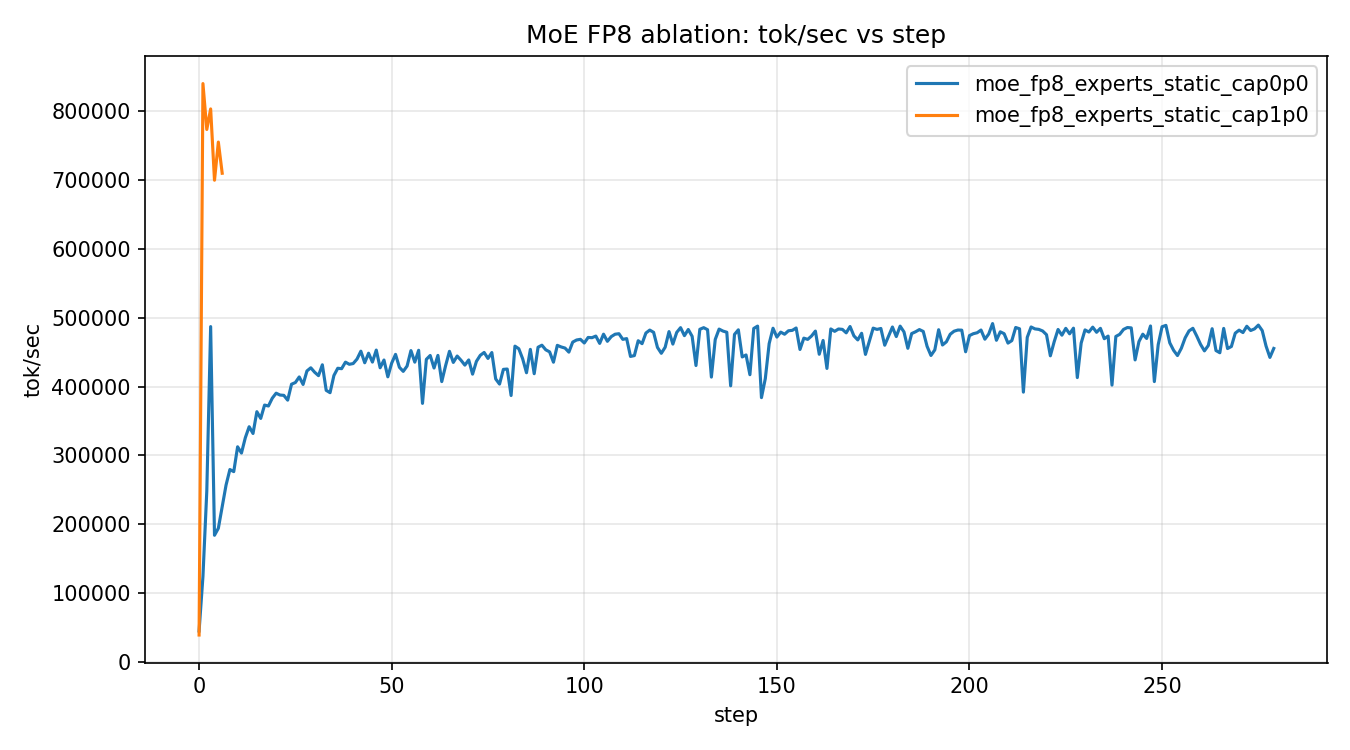
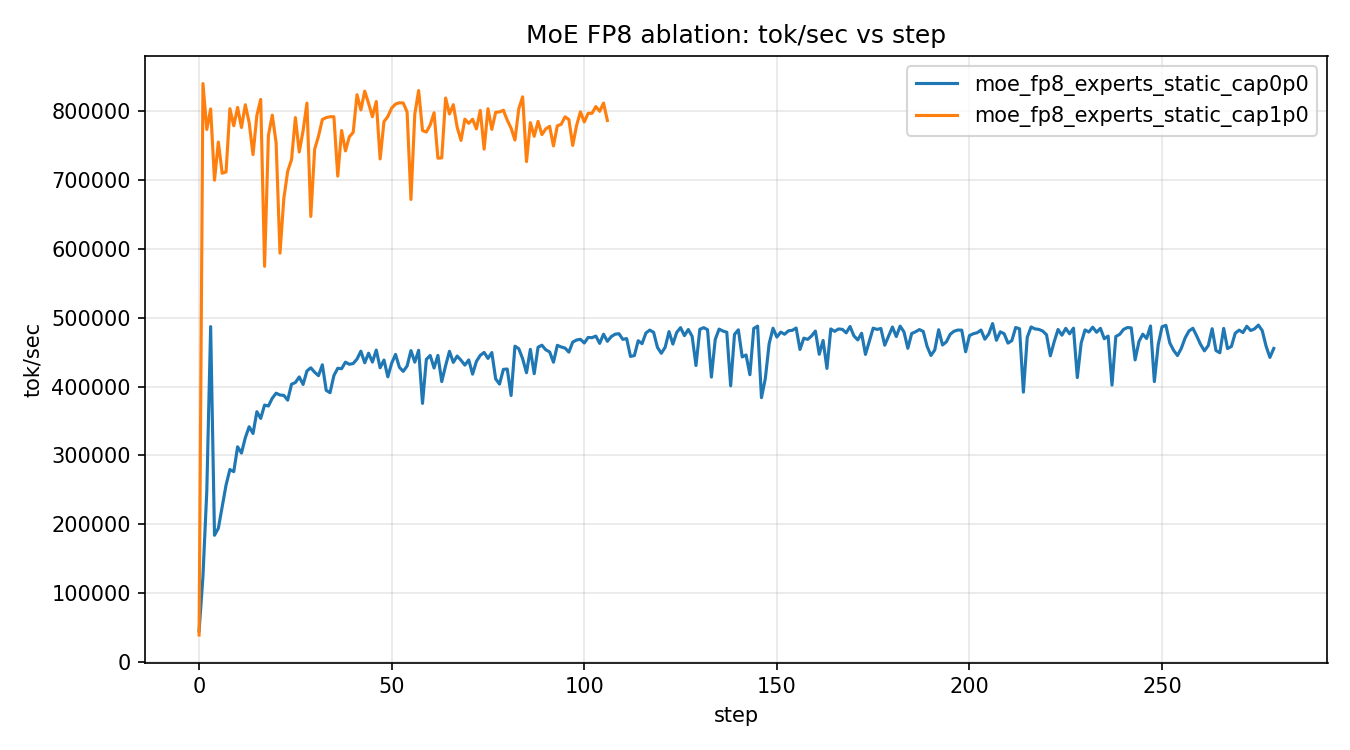
report: pause experiments and consolidate full progress summary
Context:
- User requested a temporary stop and a single markdown summary of all progress.
- Active capacity-ablation queue and torchrun were terminated intentionally.

Operational pause actions:
- Sent SIGINT/SIGTERM to queue and torchrun processes.
- Verified no active training processes remain.
- Verified all 8 GPUs idle via nvidia-smi.

Changes:
- Added consolidated summary document:
  - tmp_report/20260224_overall_progress_summary.md
- Added paused-state progress snapshot:
  - tmp_report/20260224_1740_capacity_sweep_paused_progress.md
- Refreshed paused-state artifacts:
  - tmp_report/metrics/moe_fp8_ablation_steps.csv
  - tmp_report/metrics/moe_fp8_ablation_summary.csv
  - tmp_report/figures/moe_fp8_ablation_{loss,toksec,mfu,dt_ms}.png

Summary highlights recorded:
- compile_sweep_v1 completed with full metrics across 6 runs.
- capacity_ablation_v1 has cap0.0 completed; cap1.0 interrupted by intentional stop; cap1.25 not effectively started.
- includes current branch, recent commits, artifact locations, and resume checklist.

Validation:
- ps -eo pid,ppid,etime,cmd | rg -n "moe_fp8_capacity_ablation_queue.sh|torchrun --standalone --nproc_per_node=8 -m scripts.base_train" -N
- nvidia-smi --query-gpu=index,utilization.gpu,memory.used --format=csv,noheader
- source .venv/bin/activate
[…]

Changed region(s): [[0.1556, 0.1227, 0.4356, 0.3373], [0.4356, 0.1227, 0.4667, 0.1533]]

diff --git a/tmp_report/20260224_overall_progress_summary.md b/tmp_report/20260224_overall_progress_summary.md
@@ -1,0 +1,107 @@
+# Nanochat MoE Research Progress Summary (Paused)
+
+- Generated at: 2026-02-24 17:40 +08:00
+- Repo: `/home/yangxiaobo/my_tools/books/nanochat`
+- Branch: `yxb/moe-add-sft-claude`
+- Status: **Paused by user request**
+
+## Current Runtime Status
+
+- Active queue/training has been stopped.
+- Verified no active `torchrun`/queue process remains.
+- Verified all 8 GPUs are idle (`0% util`, `0 MiB` used).
+
+## Main Code/Infra Progress
+
+### 1) Workflow constraints and local agent tooling
+
+- Added repository-level instructions file: `AGENTS.md`
+- Added local research skill package:
+  - `skills/nanochat-moe-research/SKILL.md`
+  - `skills/nanochat-moe-research/references/experiment-playbook.md`
+  - `skills/nanochat-moe-research/scripts/new_exp.py`
+  - `skills/nanochat-moe-research/agents/openai.yaml`
+
+### 2) MoE capacity-factor feature (core change)
+
+- Added fixed-capacity MoE dispatch support via `--moe-capacity-factor`
+- Plumbed config through training/model stack:
+  - `scripts/base_train.py`
+  - `nanochat/gpt.py`
+  - `nanochat/moe.py`
+- Added tests for capacity-factor behavior:
+  - `tests/test_moe.py`
+
+### 3) Experiment automation and reporting
+
+- Added/updated queue scripts for 8-GPU ablations:
+  - `runs/moe_fp8_capacity_ablation_queue.sh`
+- Added/used report generation script:
+  - `tmp_report/generate_moe_fp8_ablation_report.py`
+- Maintained periodic markdown snapshots and figure/csv artifacts under `tmp_report/`
+
+## Experiment Progress
+
+## A. Compile Sweep V1 (Completed)
+
+- Experiment dir:
+  `/mnt/stepeval/yangxiaobo/cache/nanochat/tmp_exp/20260224_164636_moe-fp8-compile-sweep-v1`
+- Launch log shows queue completed successfully.
+
+| run | status | steps | tail50 tok/sec | tail50 dt(ms) | tail50 mfu | peak mem (MiB) | total time (min) |
+| --- | --- | ---: | ---: | ---: | ---: | ---: | ---: |
+| `moe_bf16_experts_static_long` | completed | 360 | 1,080,430.24 | 487.11 | 13.0732 | 23,428.52 | 3.31 |
+| `moe_fp8_noexperts_static_long` | completed | 360 | 1,039,883.30 | 505.19 | 12.5836 | 23,234.33 | 3.50 |
+| `moe_fp8_experts_dynamic_long_retest` | completed | 360 | 785,495.06 | 669.74 | 9.5050 | 19,668.76 | 4.06 |
+| `moe_fp8_experts_static_long` | completed | 360 | 474,178.48 | 1107.05 | 5.7366 | 22,790.91 | 6.67 |
+| `moe_bf16_experts_nocompile_long_retest` | completed | 360 | 1,045,350.76 | 503.93 | 12.6498 | 23,433.47 | 3.41 |
+| `moe_fp8_experts_nocompile_long_retest` | completed | 360 | 359,711.14 | 1462.56 | 4.3524 | 22,862.51 | 8.53 |
+
+## B. Capacity Ablation V1 (Partially Completed, then manually paused)
+
+- Experiment dir:
+  `/mnt/stepeval/yangxiaobo/cache/nanochat/tmp_exp/20260224_172715_moe-fp8-capacity-ablation-v1`
+- Queue progression before pause:
+  - `17:29:03` start `moe_fp8_experts_static_cap0p0`
+  - `17:35:07` finish `moe_fp8_experts_static_cap0p0` status=0
+  - `17:35:08` start `moe_fp8_experts_static_cap1p0`
+  - `17:36:49` finish `moe_fp8_experts_static_cap1p0` status=1
+  - `17:36:50` start `moe_fp8_experts_static_cap1p25`
+- Pause action sent `SIGINT` to queue/torchrun, so run2/run3 are incomplete by design.
+
+| run | status at pause | steps observed | last step | tail50 tok/sec | tail50 dt(ms) | tail50 mfu | notes |
+| --- | --- | ---: | ---: | ---: | ---: | ---: | --- |
+| `moe_fp8_experts_static_cap0p0` | completed | 280 | 279/280 | 468,782.94 | 1120.38 | 5.6722 | completed normally |
+| `moe_fp8_experts_static_cap1p0` | interrupted | 107 | 106/280 | 783,041.76 | 670.11 | 9.4742 | interrupted by user-requested stop (KeyboardInterrupt) |
+| `moe_fp8_experts_static_cap1p25` | not started effectively | 0 | - | - | - | - | empty log due immediate pause after queue handoff |
+
+## Key Findings So Far
+
+1. FP8 + experts under static compile without fixed capacity (`cap0.0`) remains much slower than BF16/static and FP8/no-experts baselines.
+2. Introducing fixed capacity (`cap1.0`) showed a large throughput lift in the partial run (from ~469k to ~783k tok/sec tail window), suggesting capacity stabilization may reduce compile/recompile pathologies.
+3. Capacity-ablation queue needs rerun from `cap1.0` onward to obtain complete apples-to-apples final metrics (total_time, peak_mem, stable tail windows).
+
+## Recent Commits (Top)
+
+- `3636a35` report: capture cap0.0 completion and cap1.0 warm-start transition
+- `331ce28` report: snapshot live metrics for capacity sweep run1 (cap0.0 static fp8)
+- `99b6b55` report: capture run5 completion and run6 live ramp in compile_sweep_v1
+- `44c94a9` moe: add fixed-capacity dispatch mode and capacity ablation queue
+- `287b302` report: log run4 completion and run5 nocompile live regression
+- `a9d3934` report: record run3 completion and run4 dynamic throughput recovery
+
+## Important Artifact Paths
+
+- Compile sweep v1:
+  `/mnt/stepeval/yangxiaobo/cache/nanochat/tmp_exp/20260224_164636_moe-fp8-compile-sweep-v1`
+- Capacity ablation v1:
+  `/mnt/stepeval/yangxiaobo/cache/nanochat/tmp_exp/20260224_172715_moe-fp8-capacity-ablation-v1`
+- Ongoing report outputs:
+  `tmp_report/`
+
+## Resume Checklist (when restarting work)
+
+1. Resume from branch `yxb/moe-add-sft-claude`.
+2. Relaunch capacity ablation from a fresh directory under `/mnt/stepeval/yangxiaobo/cache/nanochat/tmp_exp/`.
+3. Re-run `cap1.0`, `cap1.25`, `dynamic cap1.0`, `nocompile cap1.0` to completion.
+4. Regenerate summary plots and compare against `cap0.0` and compile_sweep_v1 baselines.

diff --git a/tmp_report/20260224_1740_capacity_sweep_paused_progress.md b/tmp_report/20260224_1740_capacity_sweep_paused_progress.md
@@ -1,0 +1,26 @@
+# MoE FP8 Compile Ablation Progress
+
+Generated at: 2026-02-24 17:38:51
+
+Experiment dir: `/mnt/stepeval/yangxiaobo/cache/nanochat/tmp_exp/20260224_172715_moe-fp8-capacity-ablation-v1`
+
+## Run Summary
+
+| run | status | steps_observed | last_step | last_loss | tail50_tok/sec | tail50_mfu | tail50_dt_ms | peak_mem_mib | total_time_min |
+| --- | --- | ---: | ---: | ---: | ---: | ---: | ---: | ---: | ---: |
+| moe_fp8_experts_static_cap0p0 | completed | 280 | 279 | 3.7182 | 468783 | 5.67 | 1120.4 | 22790.06 | 5.21 |
+| moe_fp8_experts_static_cap1p0 | running | 107 | 106 | 4.8859 | 783042 | 9.47 | 670.1 | - | - |
+| moe_fp8_experts_static_cap1p25 | unknown | 0 | - | - | - | - | - | - | - |
+
+## Dynamic Compile Status
+
+- No dynamic compile runs found in this experiment directory.
+
+## Artifacts
+
+- `tmp_report/metrics/moe_fp8_ablation_steps.csv`
+- `tmp_report/metrics/moe_fp8_ablation_summary.csv`
+- `tmp_report/figures/moe_fp8_ablation_loss.png`
+- `tmp_report/figures/moe_fp8_ablation_toksec.png`
+- `tmp_report/figures/moe_fp8_ablation_mfu.png`
+- `tmp_report/figures/moe_fp8_ablation_dt_ms.png`
